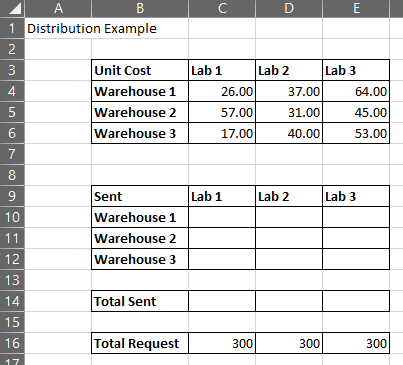
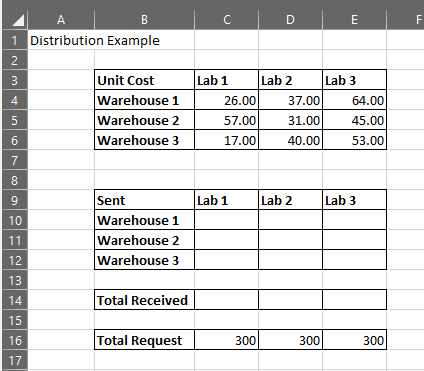
ep updates with figs

Changed region(s): [[0.0, 0.0, 1.0, 1.0], [0.9529, 0.5425, 0.9826, 0.5726]]

diff --git a/_episodes/04-solver.md b/_episodes/04-solver.md
@@ -17,10 +17,23 @@ keypoints:
 
 Solver is built in to Excel, but it may not automatically show up. It should be in the Data ribbon in the **Analyze** section. If it is not there, you can go to the **File** menu and choose **Options**. Go to **Add-ins** and choose **Excel Add-ins** from the **Manage:** menu and click **Go...**. Make sure that the **Solver Add-in** is checked.
 
-![Starting Table](../fig/2020-01-17-EngiExcel-addIns.png) ![Starting Table](../fig/2020-01-17-EngiExcel-addInsSolver.png) 
+![Main Options - Add-ins Menu](../fig/2020-01-17-EngiExcel-addIns.png) ![Add-ins check boxes](../fig/2020-01-17-EngiExcel-addInsSolver.png) 
 
 ## Solver for our Distribution Example
 
+The initial Solver window is shown in the image below. The default values are highlighted with green borders.
+
+![Solver Default](../fig/2020-01-17-EngiExcel-solverDefaults.png)
+
+Solver correctly guessed that the **Objective** of our analysis is the **TotalCost**. This is the value that is the goal of our analysis. We can ask it to look for the **Max** (which is the default), the **Min** (which is actually what we want - the lowest possible total cost of sending the widgets where they need to go), or **Value Of:** (where you can set a specific value as the objective).
+
+**Choose the Min button instead of Max**. 
+
+The second choice we need to make in Solver is to indicate the **Variable Cells**. These are the cells that Solver will adjust to find the solution to our problem, in this case the number of widgets to each lab from each warehouse. 
+
+**Type Sent in the By Changing Variable Cells: box.**
+
+The next box allows us to set additional contraints on our analysis. In our case, the Total Sent from each warehouse can't exceed the Total Stock and the Total    
 
   
 

diff --git a/_episodes/03-formulas.md b/_episodes/03-formulas.md
@@ -45,11 +45,11 @@ This way is okay when you have a small number of cells to add together, but ther
 ~~~
 {: .source}
 
-Excel functions are always shown in call capital letters. The SUM function takes the cells that you want to sum as an **argument**, inside the parentheses. You can choose them individually or as a range of cells. In this case we are adding up the number of widgets sent from Warehouse0 1 to all of the labs, which is found in cells C10, D10, and E10. 
+Excel functions are always shown in call capital letters. The SUM function takes the cells that you want to sum as an **argument**, inside the parentheses. You can choose them individually or as a range of cells. In this case we are adding up the number of widgets sent from Warehouse 1 to all of the labs, which is found in cells C10, D10, and E10. 
 
 We can choose the cell with this formula and copy it down to the cells for Warehouse 2 and 3. This is accomplished by clicking on the corner of the cell you want to copy and dragging it down. The formula will adjust so that it is summing the data for each row instead of only for row 10.
 
-The same principles work for copying across rows. We can go to the cell for the **Total Sent** to the labs and calculate the sum by adding the widgets sent from each 
+The same principles work for copying across rows. We can go to the cell for the **Total Received** by the labs and calculate the sum by adding the widgets sent from each 
 
 ## Cell References 
  

diff --git a/_episodes/02-format.md b/_episodes/02-format.md
@@ -55,7 +55,7 @@ Notice that we included the outlines for the cells and the bolded headers.
 
 We also need to add the numbers of widgets available and required. As the required widgets are related to the labs, we can put the row for this data below our shipment table. For our calculations, we will also need a row that will contain a formula to make sure the total number of widgets going to each lab is equal to the request. 
 
-We will put in the row for the formulas first. We will label this row **Total Sent**. The columns will line up with the lab headers.
+We will put in the row for the formulas first. We will label this row **Total Received**. The columns will line up with the lab headers.
 
 After one blank row, we will add the column with the widgets requested. The label will be **Total Request** and each of the columns for the labs will have a value of **300**. 
 
